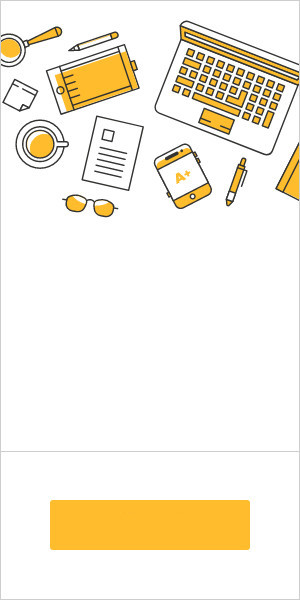
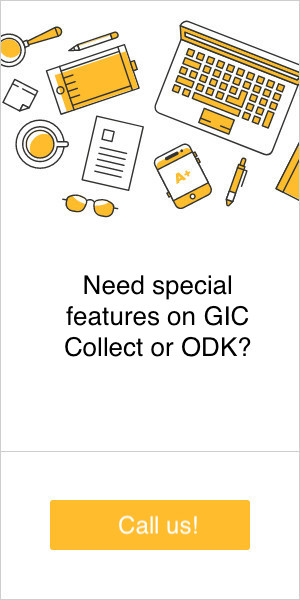
Ads in spanish

Changed region(s): [[0.21, 0.45, 0.84, 0.6], [0.39, 0.84, 0.66, 0.9]]

diff --git a/docs/bannerFS.html b/docs/bannerFS.html
@@ -36,9 +36,9 @@ img{
   ];
   
   var imageUrlsSpanish = [
-       "https://dsalazarrojas.github.io/Odk-Collect-for-IOS/images/NeedSpecialFeaturesOnOdkBannerFullScreen.jpeg"
-     , "https://dsalazarrojas.github.io/Odk-Collect-for-IOS/images/NeedHelpWithYourFormDesignBannerFS.jpg"
-     , "https://dsalazarrojas.github.io/Odk-Collect-for-IOS/images/NeedHelpWithODKProgrammingFS.jpg"
+       "https://dsalazarrojas.github.io/Odk-Collect-for-IOS/images/NeedSpecialFeaturesOnOdkBannerFullScreenSP.jpeg"
+     , "https://dsalazarrojas.github.io/Odk-Collect-for-IOS/images/NeedHelpWithYourFormDesignBannerFSsp.jpg"
+     , "https://dsalazarrojas.github.io/Odk-Collect-for-IOS/images/NeedHelpWithODKProgrammingFSsp.jpg"
      , "https://dsalazarrojas.github.io/Odk-Collect-for-IOS/images/CompraSuscripcionOdkBannerFullScreen.png"
      , "https://dsalazarrojas.github.io/Odk-Collect-for-IOS/images/CompraSuscripcionOdkBannerFullScreen.png"
      , "https://dsalazarrojas.github.io/Odk-Collect-for-IOS/images/CompraSuscripcionOdkBannerFullScreen.png"     
@@ -55,7 +55,7 @@ img{
 
   function getImageHtmlCode() {
     var userLang = navigator.language || navigator.userLanguage;
-    if (userLang == "es") {
+    if (userLang.substring(0, 2) == "es") {
       var dataIndex = Math.floor(Math.random() * imageUrlsSpanish.length);
       var img = '<a href=\"' + imageLinksSpanish[dataIndex] + '"><img src="';        
       img += imageUrlsSpanish[dataIndex];
@@ -74,6 +74,8 @@ img{
 <body bgcolor="white">
 <script type="text/javascript">
   document.write(getImageHtmlCode());
+  var userLang = navigator.language || navigator.userLanguage;
+  document.write(userLang);
 </script>
 </body>
 </html>
